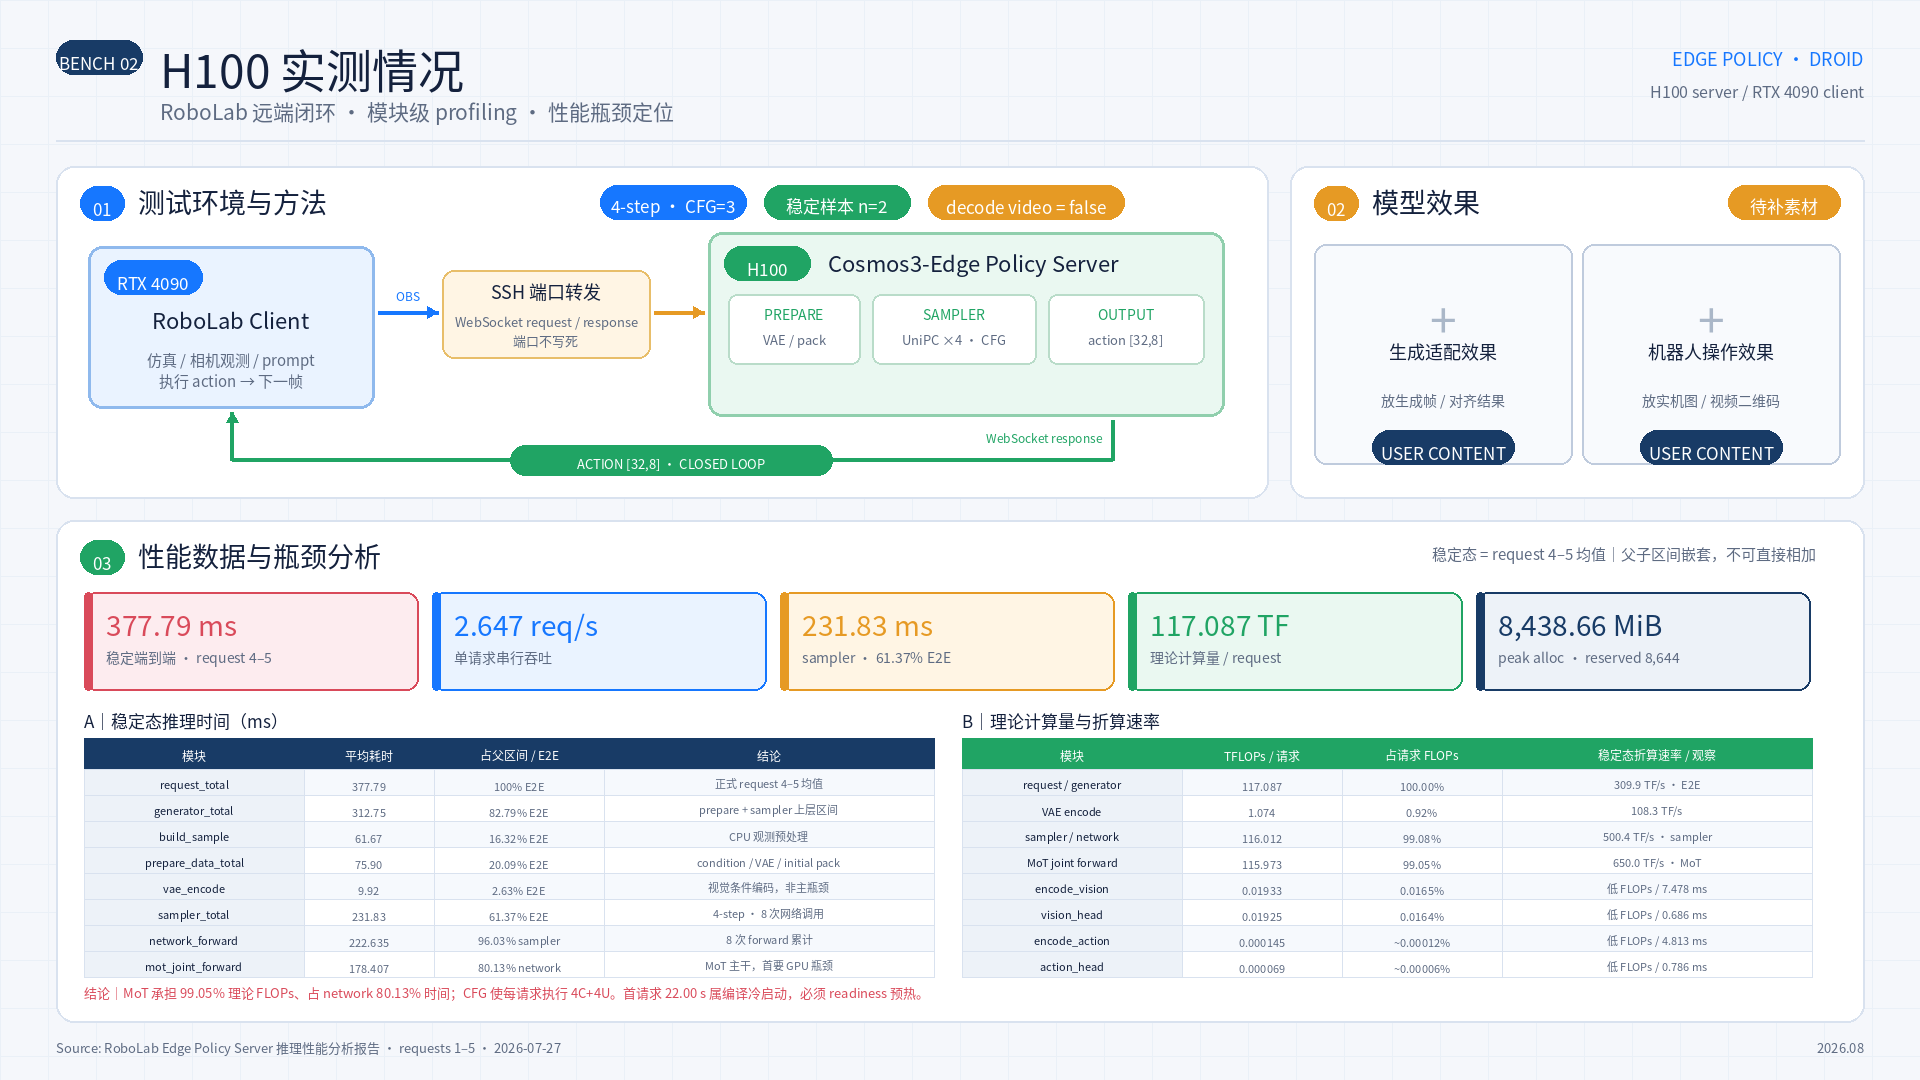
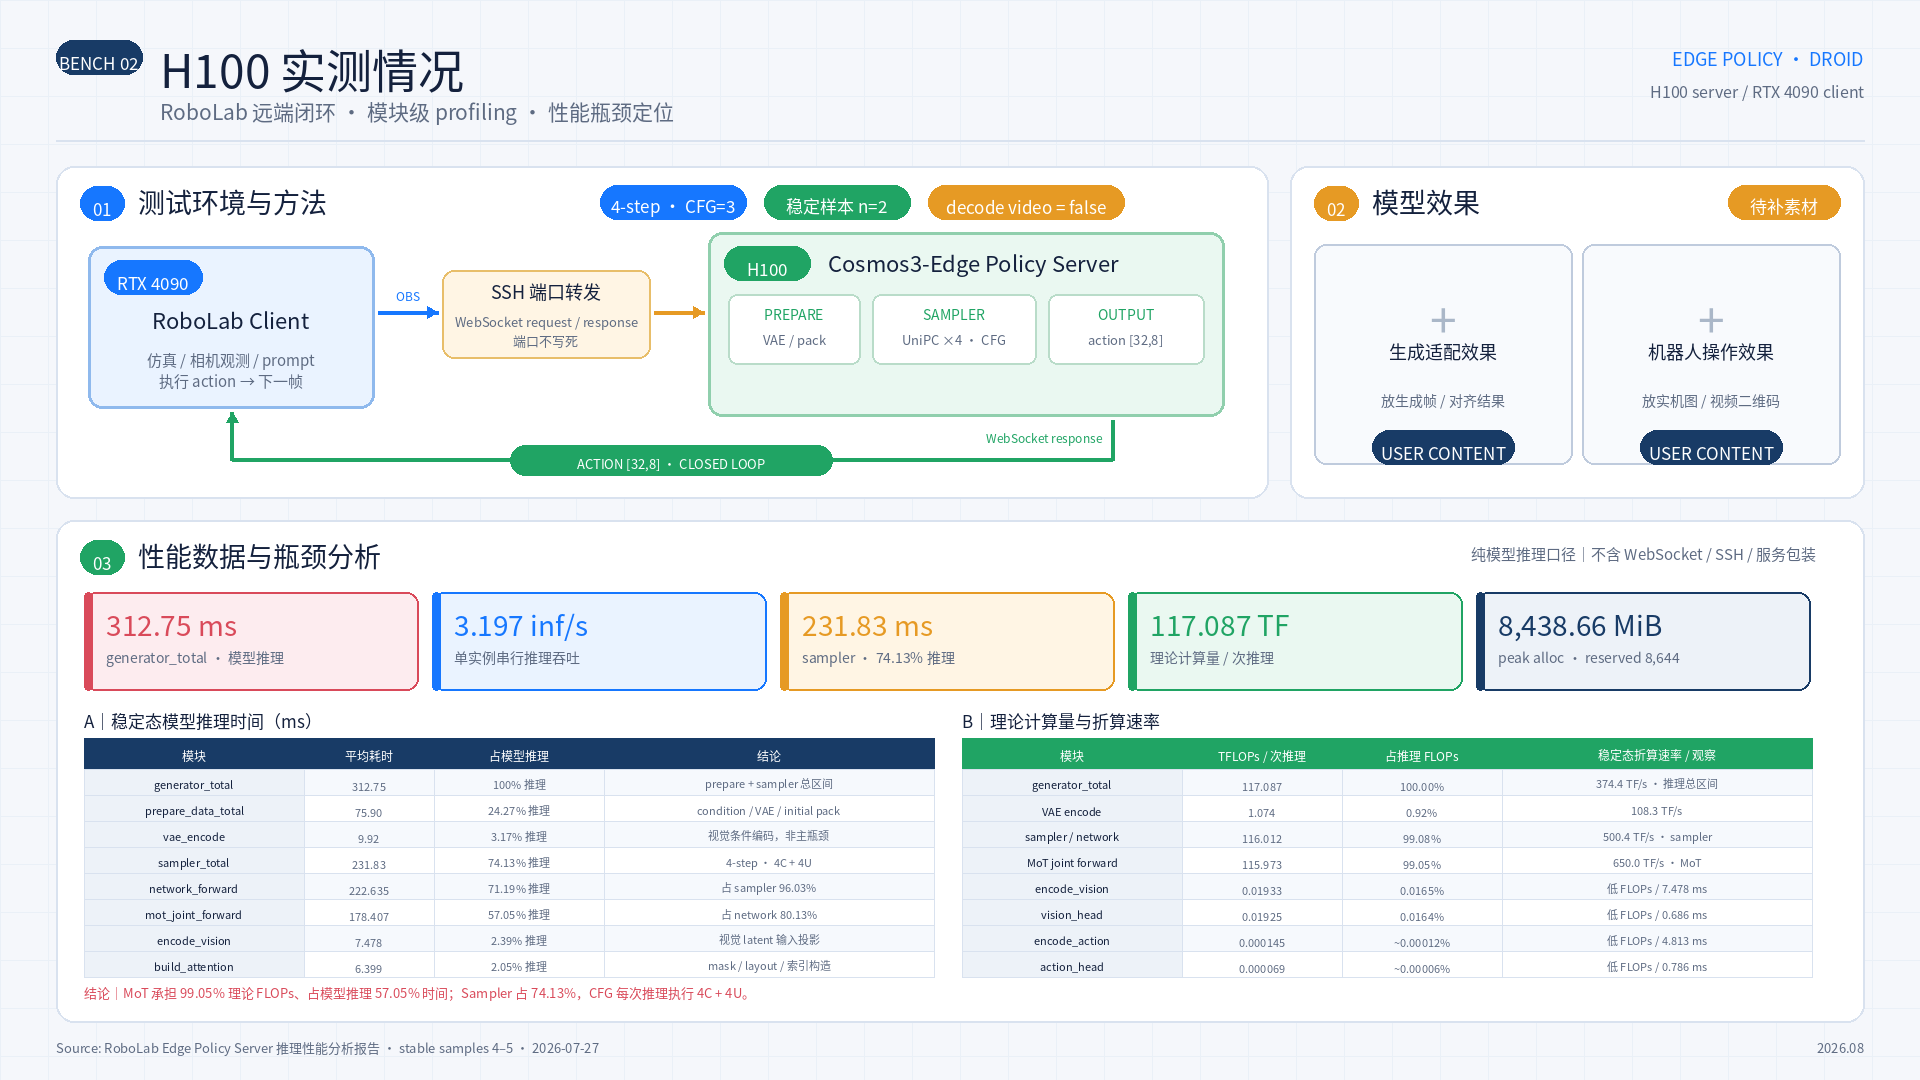
Focus H100 slide on model inference

diff --git a/docs/ppt/cosmos3_edge_model_insights/generate_pptx.py b/docs/ppt/cosmos3_edge_model_insights/generate_pptx.py
@@ -277,13 +277,13 @@ def build_h100_slide(c):
     c.rect(px, py, pw, ph, COLORS["panel"], COLORS["hair"], 18, 2)
     c.badge(px + 24, py + 20, 44, "03", COLORS["green"])
     c.text(px + 82, py + 15, 600, 38, "性能数据与瓶颈分析", 27, COLORS["ink"], True)
-    c.text(px + 920, py + 22, 840, 26, "稳定态 = request 4–5 均值｜父子区间嵌套，不可直接相加", 15, COLORS["muted"], False, "right")
+    c.text(px + 860, py + 22, 900, 26, "纯模型推理口径｜不含 WebSocket / SSH / 服务包装", 15, COLORS["muted"], False, "right")
 
     kpis = [
-        ("377.79 ms", "稳定端到端 · request 4–5", COLORS["red"], COLORS["soft_red"]),
-        ("2.647 req/s", "单请求串行吞吐", COLORS["blue"], COLORS["soft_blue"]),
-        ("231.83 ms", "sampler · 61.37% E2E", COLORS["amber"], COLORS["soft_amber"]),
-        ("117.087 TF", "理论计算量 / request", COLORS["green"], COLORS["soft_green"]),
+        ("312.75 ms", "generator_total · 模型推理", COLORS["red"], COLORS["soft_red"]),
+        ("3.197 inf/s", "单实例串行推理吞吐", COLORS["blue"], COLORS["soft_blue"]),
+        ("231.83 ms", "sampler · 74.13% 推理", COLORS["amber"], COLORS["soft_amber"]),
+        ("117.087 TF", "理论计算量 / 次推理", COLORS["green"], COLORS["soft_green"]),
         ("8,438.66 MiB", "peak alloc · reserved 8,644", COLORS["navy"], COLORS["soft_navy"]),
     ]
     kx, ky, kw, kg = px + 28, py + 72, 334, 14
@@ -315,27 +315,27 @@ def build_h100_slide(c):
 
     table_y = py + 188
     latency_rows = [
-        ("request_total", "377.79", "100% E2E", "正式 request 4–5 均值"),
-        ("generator_total", "312.75", "82.79% E2E", "prepare + sampler 上层区间"),
-        ("build_sample", "61.67", "16.32% E2E", "CPU 观测预处理"),
-        ("prepare_data_total", "75.90", "20.09% E2E", "condition / VAE / initial pack"),
-        ("vae_encode", "9.92", "2.63% E2E", "视觉条件编码，非主瓶颈"),
-        ("sampler_total", "231.83", "61.37% E2E", "4-step · 8 次网络调用"),
-        ("network_forward", "222.635", "96.03% sampler", "8 次 forward 累计"),
-        ("mot_joint_forward", "178.407", "80.13% network", "MoT 主干，首要 GPU 瓶颈"),
+        ("generator_total", "312.75", "100% 推理", "prepare + sampler 总区间"),
+        ("prepare_data_total", "75.90", "24.27% 推理", "condition / VAE / initial pack"),
+        ("vae_encode", "9.92", "3.17% 推理", "视觉条件编码，非主瓶颈"),
+        ("sampler_total", "231.83", "74.13% 推理", "4-step · 4C + 4U"),
+        ("network_forward", "222.635", "71.19% 推理", "占 sampler 96.03%"),
+        ("mot_joint_forward", "178.407", "57.05% 推理", "占 network 80.13%"),
+        ("encode_vision", "7.478", "2.39% 推理", "视觉 latent 输入投影"),
+        ("build_attention", "6.399", "2.05% 推理", "mask / layout / 索引构造"),
     ]
     draw_table(
         px + 28,
         table_y,
-        "A｜稳定态推理时间（ms）",
+        "A｜稳定态模型推理时间（ms）",
         [220, 130, 170, 330],
-        ["模块", "平均耗时", "占父区间 / E2E", "结论"],
+        ["模块", "平均耗时", "占模型推理", "结论"],
         latency_rows,
         COLORS["navy"],
     )
 
     flops_rows = [
-        ("request / generator", "117.087", "100.00%", "309.9 TF/s · E2E"),
+        ("generator_total", "117.087", "100.00%", "374.4 TF/s · 推理总区间"),
         ("VAE encode", "1.074", "0.92%", "108.3 TF/s"),
         ("sampler / network", "116.012", "99.08%", "500.4 TF/s · sampler"),
         ("MoT joint forward", "115.973", "99.05%", "650.0 TF/s · MoT"),
@@ -349,24 +349,24 @@ def build_h100_slide(c):
         table_y,
         "B｜理论计算量与折算速率",
         [220, 160, 160, 310],
-        ["模块", "TFLOPs / 请求", "占请求 FLOPs", "稳定态折算速率 / 观察"],
+        ["模块", "TFLOPs / 次推理", "占推理 FLOPs", "稳定态折算速率 / 观察"],
         flops_rows,
         COLORS["green"],
     )
 
-    c.text(px + 28, py + 462, 1710, 20, "结论｜MoT 承担 99.05% 理论 FLOPs、占 network 80.13% 时间；CFG 使每请求执行 4C+4U。首请求 22.00 s 属编译冷启动，必须 readiness 预热。", 13, COLORS["red"], True)
+    c.text(px + 28, py + 462, 1710, 20, "结论｜MoT 承担 99.05% 理论 FLOPs、占模型推理 57.05% 时间；Sampler 占 74.13%，CFG 每次推理执行 4C + 4U。", 13, COLORS["red"], True)
 
-    c.text(56, 1037, 1660, 22, "Source: RoboLab Edge Policy Server 推理性能分析报告 · requests 1–5 · 2026-07-27", 13, COLORS["muted"])
+    c.text(56, 1037, 1660, 22, "Source: RoboLab Edge Policy Server 推理性能分析报告 · stable samples 4–5 · 2026-07-27", 13, COLORS["muted"])
     c.text(1720, 1037, 144, 22, "2026.08", 13, COLORS["muted"], True, "right")
 
     c.set_notes(
         "讲解要点：RoboLab 客户端运行在 RTX 4090，观测通过 SSH 端口转发后的 WebSocket 发往 H100 上的 "
-        "Cosmos3-Edge Policy Server，返回 [32,8] action 后闭环执行。报告覆盖 requests 1–5，正式稳定态只取 "
-        "warmup=false 的 request 4–5，均值 377.79 ms；n=2 只能用于初步性能判断，不能给出可靠 P95/P99。"
-        "4-step、guidance=3 每请求执行 4 次 conditional 和 4 次 unconditional。network_forward 的 222.635 ms 是 8 次调用的累计值，"
-        "不是单次 forward；sampler 总计 231.83 ms。理论计算量 117.087 TFLOPs/request，其中 MoT joint forward 为 115.973 TFLOPs，"
+        "Cosmos3-Edge Policy Server，返回 [32,8] action 后闭环执行；该拓扑只解释测试环境，不进入性能口径。"
+        "本页从 generator_total 开始统计纯模型推理，排除 WebSocket、SSH、build_sample 和服务包装。稳定模型推理为 312.75 ms，"
+        "对应单实例串行 3.197 inference/s。4-step、guidance=3 每次推理执行 4 次 conditional 和 4 次 unconditional。"
+        "network_forward 的 222.635 ms 是 8 次调用的累计值，sampler 总计 231.83 ms。理论计算量 117.087 TFLOPs/次推理，其中 MoT joint forward 为 115.973 TFLOPs，"
         "是首要 GPU 瓶颈。稳定峰值显存为 8438.66 MiB allocated、8644 MiB reserved，request 2–5 无增长。"
-        "首请求 22.00 秒来自编译和初始化，部署前必须执行 2–3 次相同 shape 的 readiness warmup。模型效果区域由用户补入素材。"
+        "模型效果区域由用户补入素材。"
     )
 
 

diff --git a/docs/agent_logs/2026-08-17.md b/docs/agent_logs/2026-08-17.md
@@ -179,6 +179,14 @@ Status: `RESOLVED`
   page previews alongside it. Slide 1 was also corrected for batched action
   shape, prefix-VAE meaning, shared sampler state, and paper-backed embodied
   innovation labels.
+- Revised the H100 performance panel for a leadership-facing, model-only
+  inference scope. Visible KPIs and tables now start at `generator_total` and
+  exclude `request_total`, `build_sample`, WebSocket, SSH forwarding, and
+  service-wrapper time. Stable model inference is `312.75 ms` or about
+  `3.197 inference/s`; sampler is `231.83 ms` (`74.13%` of model inference),
+  network forward is `222.635 ms`, and MoT is `178.407 ms` (`57.05%` of model
+  inference). The total `117.087 TFLOPs` over the generator interval gives a
+  report-derived `374.4 TFLOP/s` model-inference rate.
 - Policy mode jointly predicts the intervention and its expected visual
   consequence. DROID post-training predicts 32 future joint actions plus
   auxiliary RGB video at 15 Hz; deployment can skip RGB decoding while still
